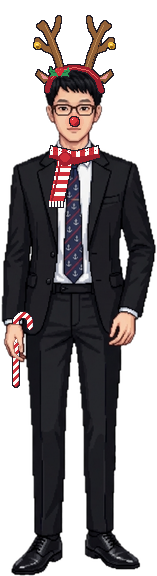
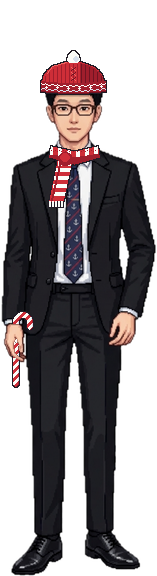
크리스마스 꾸밈: 1번과 3번의 머리 장식 맞바꾸기
- boss1: 루돌프 뿔 머리띠·빨간 코 → 니트 털모자(머리 실루엣에 맞춤)
- boss3: 니트 털모자 → 루돌프 뿔 머리띠·사슴 귀·빨간 코(코는 boss3 코 위치)
- 목도리와 손에 든 소품(지팡이 사탕, 코코아 머그)은 각자 그대로
- export_cards.py 파일 이름, xmas.jsx 주석, README 설명을 같이 고침

Claude-Session: https://claude.ai/code/session_016yWrSv467UU5pfhhZZV1JG

Changed region(s): [[0.2038, 0.0, 0.7389, 0.2188]]

diff --git a/src/xmas.jsx b/src/xmas.jsx
@@ -11,7 +11,7 @@ import leader3 from "./assets/xmas/leader3.png";
 import leader4 from "./assets/xmas/leader4.png";
 
 // 로그인 화면 주인공: 방탈출의 파트장님·PL님(public/char/boss1~4.png)에 크리스마스 소품을 얹은 그림.
-// 순서: boss1(루돌프 뿔·코, 지팡이 사탕), boss2(엘프 모자, 선물 상자), boss3(니트 털모자, 코코아 머그), boss4(산타 모자, 선물 자루). boss4가 PL님.
+// 순서: boss1(니트 털모자, 지팡이 사탕), boss2(엘프 모자, 선물 상자), boss3(루돌프 뿔·코, 코코아 머그), boss4(산타 모자, 선물 자루). boss4가 PL님.
 // 그림은 tools/xmas/deco.py로 만든다(README "연말 장식").
 // 시즌이 끝나면 Login.jsx에서 원본(public/char/boss1~4.png)을 쓰면 된다.
 export const XMAS_LEADERS = [leader1, leader2, leader3, leader4];

diff --git a/tools/xmas/deco.py b/tools/xmas/deco.py
@@ -472,16 +472,16 @@ def hand_mask(src, box):
 
 
 SPECS = {
-    1: dict(name="rudolph", label="루돌프",
-            head=lambda L, s, p: antlers(L, 73, 2, 56, (73, 57)),
+    1: dict(name="beanie", label="털모자",
+            head=lambda L, s, p: beanie(L, Fit(p, 17, 27)),
             scarf=(73, 82, 46, RED, RED_D, WHT, -1),
             prop=lambda L: candy_cane(L, 15, 250, 320), hand=(3, 258, 28, 300)),
     2: dict(name="elf", label="엘프",
             head=lambda L, s, p: elf_hat(L, Fit(p, 12, 21)),
             scarf=(75, 82, 46, RED, RED_D, GRN, 1),
             prop=lambda L: gift_box(L, 2, 297, 28, 318), hand=(3, 258, 28, 300)),
-    3: dict(name="beanie", label="털모자",
-            head=lambda L, s, p: beanie(L, Fit(p, 18, 28)),
+    3: dict(name="rudolph", label="루돌프",
+            head=lambda L, s, p: antlers(L, 73, 2, 60, (73, 58)),
             scarf=(72, 86, 52, GRN, GRN_D, WHT, 1),
             prop=lambda L: cocoa_mug(L, -14, 276, 2, 296), hand=(0, 256, 24, 302)),
     4: dict(name="santa", label="산타",

diff --git a/tools/xmas/export_cards.py b/tools/xmas/export_cards.py
@@ -3,7 +3,7 @@
 import math, random, sys
 from PIL import Image, ImageDraw, ImageFilter
 SRC, DST = sys.argv[1], sys.argv[2]
-NAMES = {1: "rudolph", 2: "elf", 3: "beanie", 4: "santa"}
+NAMES = {1: "beanie", 2: "elf", 3: "rudolph", 4: "santa"}
 INK = (34, 28, 38, 255)
 
 def card(fig, seed):

diff --git a/README.md b/README.md
@@ -332,13 +332,13 @@ npm run test:e2e     # 터미널 2: 화면 흐름 검증 8개 (특정 것만: np
 
 ## 연말 장식
 
-눈 내림, 전구 줄, 패널 제목의 호랑가시 잎, 로고의 산타 모자, 트리·선물, 선물 리본, 로그인 화면 파트장님·PL님의 크리스마스 꾸밈(`src/assets/xmas/leader1~4.png`: 루돌프 뿔·사슴 귀·빨간 코와 지팡이 사탕, 엘프 모자와 선물 상자, 니트 털모자와 코코아 머그, 산타 모자와 선물 자루, 모두 목도리)은 `src/xmas.jsx`, `src/xmas.css`, `src/assets/xmas/`에만 있다. 기본 색·테두리·버튼·대사창(방탈출 값)은 `styles.css`에서 바꾸지 않았다. 움직임 줄이기 설정을 켠 기기에서는 눈과 전구가 멈춰 있다.
+눈 내림, 전구 줄, 패널 제목의 호랑가시 잎, 로고의 산타 모자, 트리·선물, 선물 리본, 로그인 화면 파트장님·PL님의 크리스마스 꾸밈(`src/assets/xmas/leader1~4.png`: 니트 털모자와 지팡이 사탕, 엘프 모자와 선물 상자, 루돌프 뿔·사슴 귀·빨간 코와 코코아 머그, 산타 모자와 선물 자루, 모두 목도리)은 `src/xmas.jsx`, `src/xmas.css`, `src/assets/xmas/`에만 있다. 기본 색·테두리·버튼·대사창(방탈출 값)은 `styles.css`에서 바꾸지 않았다. 움직임 줄이기 설정을 켠 기기에서는 눈과 전구가 멈춰 있다.
 
 꾸밈 그림은 `tools/xmas/deco.py`(원본 `public/char/boss1~4.png` 위에 1픽셀 해상도로 그림, 모자는 원본의 머리 실루엣을 재서 폭·위치·높이를 맞추고 챙은 머리를 감싸는 곡선, 손 픽셀을 다시 덮어 소품을 쥔 모양)로 만들고, `tools/xmas/export_cards.py`가 사람별 PNG(투명 원본, 4배 확대, 1080×1920 크리스마스 배경 카드)를 내보낸다. Python과 Pillow가 필요하다.
 
 ```
 python3 tools/xmas/deco.py public/char <출력 폴더>          # leader1~4.png
-python3 tools/xmas/export_cards.py <출력 폴더> <내보낼 폴더>  # xmas1_rudolph.png, _x4.png, _card.png …
+python3 tools/xmas/export_cards.py <출력 폴더> <내보낼 폴더>  # xmas1_beanie.png, _x4.png, _card.png …
 ```
 
 시즌이 끝나면 `src/main.jsx`의 xmas import 두 줄과 `<Snow />`, `src/App.jsx`의 `<Garland />`·`<XmasFooter />`, `src/pages/Login.jsx`의 장식 몇 줄(`Garland`, `XmasTree`, `Gifts`, `logo-xmas`)을 지우고, 로그인 화면 캐릭터를 `XMAS_LEADERS` 대신 원본 `public/char/boss1~4.png`로 바꾸면 원래 디자인으로 돌아간다.
